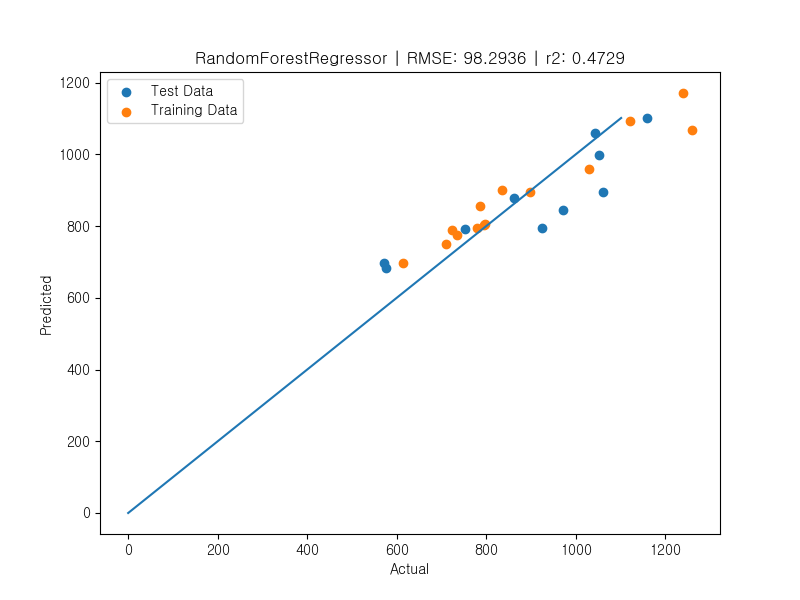
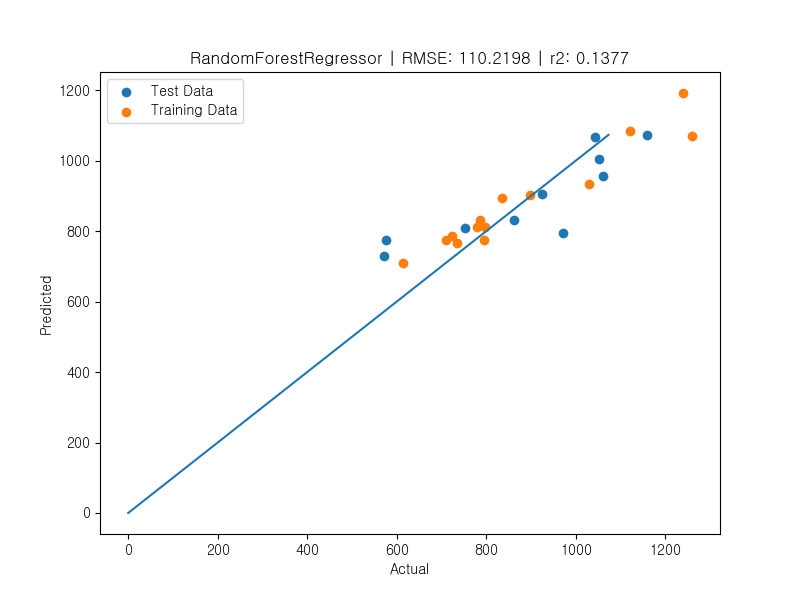
드론 변수 수정

diff --git a/iksan/rf_model.py b/iksan/rf_model.py
@@ -24,7 +24,10 @@ def predict_yield(df, feature_predict_figname):
     # X = df.drop(columns=drop_columns).select_dtypes(exclude=['object'])
 
     plot_cols = df.filter(like='조사지').columns
-    X_cols = ['SPAD_분얼전기', '간장(cm)_개화후2주', '군집(LAI)_개화후2주', '엽록소함량(µmol/m2)_개화후4주', '군집(LAI)_개화기']
+    # X_cols = ['간장(cm)_개화후2주', 'CVI_개화후2주', '엽록소함량(µmol/m2)_개화후4주',  'SPAD_분얼전기', 'NDRE_개화기',
+    #           '군집(LAI)_개화후2주', '군집(LAI)_개화기',]
+    X_cols = ['간장(cm)_개화후2주', '군집(LAI)_개화후2주', 'NDVI_개화후4주',  'CVI_개화후4주', '엽록소함량(µmol/m2)_개화후2주', 'SPAD_분얼전기', 'NDRE_개화기']
+
     X_cols =  list(plot_cols) + X_cols
     X = df[X_cols]
     X_train, X_test, y_train, y_test = train_test_split(X, y, train_size=0.6, random_state=42)
@@ -65,6 +68,7 @@ def main():
     df = pd.read_csv(data_filename)
     df = df[df['반복'] != '평균']
     df['종자_생체중_수확기'] = df['종자_생체중_수확기'] * 25
+
     df = pd.get_dummies(df, columns=['조사지'], prefix='조사지')
     df = df.dropna(axis=1)
 

diff --git a/iksan/README.md b/iksan/README.md
@@ -2,10 +2,14 @@
 * RandomForest
 ![image](https://github.com/SmartDigitalAg/Wheat-Yield-Estimation/assets/93760723/6c9f868f-9889-478b-bb79-51c7f98d3648)
 
-변수 중요도에 따라 드론 데이터 변수를 몇 개 추가하여 실행해봤으나, 성능이 오히려 나빠져서 그대로 둠.
+'간장(cm)_개화후2주', '군집(LAI)_개화후2주', 'NDVI_개화후4주',  'CVI_개화후4주', '엽록소함량(µmol/m2)_개화후2주', 'SPAD_분얼전기', 'NDRE_개화기' + 조사지
+
+MAE: 90.49, R2score: 0.14, RMSE: 110.22
+
+![image](https://github.com/SmartDigitalAg/Wheat-Yield-Estimation/assets/93760723/3a86dd66-ca87-43f4-b6ec-dca7c2e38190)
 
 * XGB
-* 
+
 ![image](https://github.com/SmartDigitalAg/Wheat-Yield-Estimation/assets/93760723/f3a40937-8340-4941-97b4-acdff61e3671)
 
 변수 중요도에 따라 드론 데이터 변수를 몇 개 추가하여 실행했고, 성능이 향상됨.
